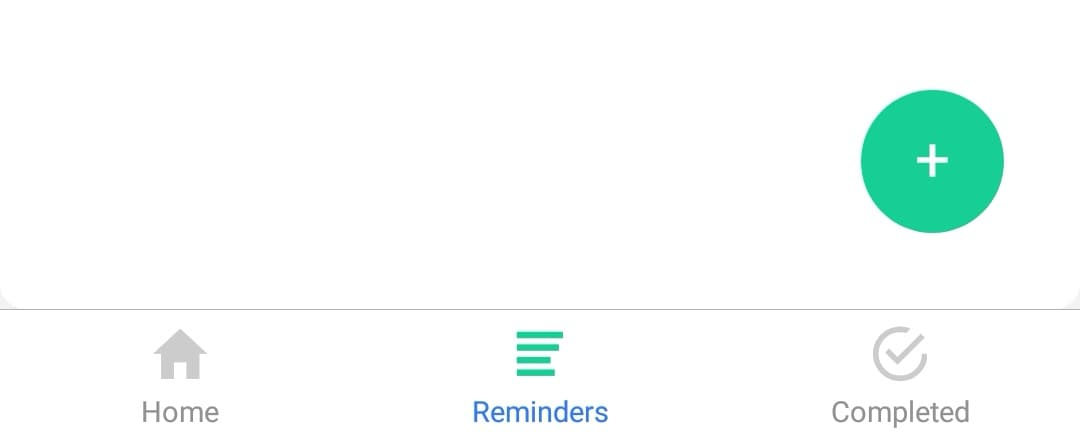
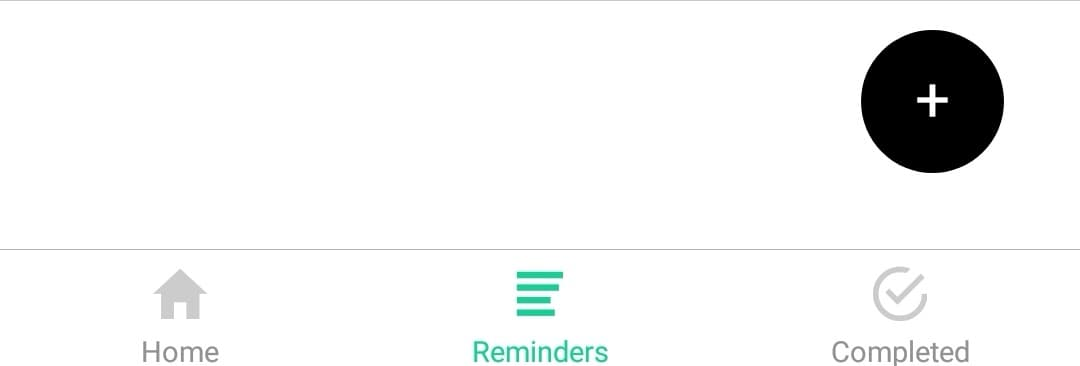
Minor changes to the style and Welcome Modal.

diff --git a/components/ModalWelcome.js b/components/ModalWelcome.js
@@ -12,6 +12,8 @@ import {Constants, Svg} from 'expo';
 import {Kaede} from 'react-native-textinput-effects';
 import createStyles from '../styles/ModalWelcomeStyle.js';
 import Storage from "../components/Storage.js";
+const screenWidth = Dimensions.get('window').width;
+import color from '../constants/Colors';
 
 const styles = createStyles();
 let openModal = false;
@@ -38,51 +40,55 @@ export default class ModalWelcome extends React.Component {
                     this.props.setClose(false);
                 }}>
                 <ScrollView>
-                    <Text style={styles.titleT}>Welcome to</Text>
-                    <Text style={styles.titleB}>ReMind</Text>
-                    <Svg height={100} width={100} style={{borderColor:'red'}}>
-                        <Svg xmlns="http://www.w3.org/2000/svg" viewBox="0 0 772.74 525.25">
-                            <Svg.G id="10b55ef5-f461-420d-8f90-6248f2df40a1" data-name="Layer 3">
-                                <Svg.Path
-                                    d="M703.89,256.32c-1.95-28.38-24.07-.79-38.16,15.22s10,54.56,19.61,65.28S702.18,312,719.83,303s21,19.55,1.92,42.59-63.73,2.9-73.93.33-32.12-27.18-37.34-44.1,15.64-24.78,26.64-29.94,10.1-38.85,7.19-58.67,21.92,24.6,28.57-2-9.82-25.53-15.74-39-36.72,1.79-43.73,15-1.36,23.79,4.66,40.89-23,23.15-33.29,48.9,2.71,50,9.36,83.32,23.16,26.6,31.26,9.74,37.87-3.64,54.7,9.11,13.32,7.57,27.86,1.3,34.31-25.68,26.07,8.65S722.79,415,705.67,429.28s-24.8-28.58-38.36-37.57S627.38,414.9,612.8,420,586.45,393,567.64,380.54s-79,4.93-96.49,4.17,45.35-14,74.9-23.91,16.45-46.73,11.88-61.64,10.68-32.16,21-48.07-13.31-44.73-29.29-70.3,19.59-3.16,31.06,17.05,13.51-22.9,17.69-37.43,35.86-4.4,33.69-19.16S601.33,120.94,593.57,113s-7.69,17.67-22.07,37.54-39.62-9.92-59.93-11.41,27.83,45.36,39.12,66.39-7.22,57.86-22.13,65.16-10.62,34.39,0,58.48-73.15,37.67-87.12,42.92,12.2,10.23,2.68,26.32,51.51,1.08,68.81,1.43,70.77,22.91,88.37,49.66,26.33-26.69,57-23,21.41,20.15,10.16,23.29-29.43,7.07-35.33,31.8-31.76,1.65-50.29-13.29-46.44-29-60.5-42.27-64-6.23-102.76,7.59,1.66-27.46-14.57-39.82,22.2-32.47,49.69-45.18,27.14-63.87,22.44-83.44,23.81-1.64,33.87-12.27-5.79-61.17-29.2-112.13,15.72-29.46,28-21.86,77.36,1.41,60.48-28-45.25-27.64-36.83-10-34.29-3.56-53.05-6.72S448,138.6,437,145.59s29.33,34.35,25.07,76.5S448,268.56,424,316.91s-43.07,9.87-51.7,29.39,7.65,48.74,0,76.76,30,37,54.52,32.27,35-22.85,99.53,5.49,22.84,37,6.86,49-25.88-23.88-37.74-29S432,460.88,405.62,492.44s-30.9-26-60.72-56.47,5.05-64.5,10.44-116.43,43.86,27.68,45.79-27.2,8-19.51,15-49.95,33.7-33.58,1.22-89.18,0,0-48.69-22.47S322.5,89,380.25,104s54.56-56.68,54.56-56.68-24-1.13-46.83,16-41.48-13.43-59.48-7.3.71,56.86,4.41,77.34,59.42,21.83,58.89,76.72-15.88,56.49-50,79.27S303,344.8,303,344.8s-12.84,67.31,2.79,105.63,19.86,34.58,18.3,64.88c0,0-39.53,20.34-39.55-3s19.37-49-2.09-79.15-18.18-86.23-8.82-93.17,22.3-96.24,43.54-97.41,42.1,21.23,44.75-6.46-2.58-45-41.13-67.14-23.09-39-29.58-51.21,15.36-58.28-19.76-40.9-32.4,29.89-15,49.94,6.64,48.36,27.29,54.92,60.88,24.79,44.58,32.13-47.54,6.13-54.1,28.64-11.49,61.83-17.24,69.9-32.51,33.35-24.36,55.88S269.25,446.7,251.08,436s-61.65-24.16-58.22-37,34.79,7.81,24.22-16.07-7.72-44.07,9-65.63S244,241.66,261.49,228.2,293,210.51,277.92,203s-37.72-28.44-40.84-41.16-21.12-54.67-29.16-50.4-39.72,8.56-25.17,25S197,172,223.51,189.81s30.32,19.3,5.44,55.5-23.87,51.77-35.4,59.3,1.74,72.36-8,71.81-27.28,21.23-31.79,15.87-42.94-15.12-41.7-28.55S165.1,379,162.29,355.1s5.53-68.78,18.55-80.09,43-50.89,35.85-57.4S194,171.5,174.39,166.33s-21.74-25.41-43.14,7.24-3,29.32,7.81,24.56,15.7-30.06,30-6.88S197.28,220,192,230.85s-42.32,15.94-44.69,39,2.3,57-7.13,61.11S97.4,351.74,96,342.64s-15.56-54.83-3.18-60,15.07,36.16,21,27.07,11.48-62,23.3-66,37.93-23.74,21.15-26.95-47.93-1-48.62,10.21,4.75,36.84-7.34,38.38-37.66,19-34.2,44.73,7.66,49.17,28.13,71.58c11.39,12.47,15.57,17.68,32.14,25.41,13.2,6.17,42.39,4.54,51,8.54,19.51,9,15,7.44,25.39,13.14,4.54,3.56,9.05,5.6,11,10.07s7.66,6.26,9.2,11.7c1.67,5.94-.9,11,2.12,16.2,3.83,6.63,12.62,7.74,16.68,11.86,5.67,5.75,3.47,19.56,5.06,26.89,2.08,9.56,7.37,12.46,12.08,16.42,9.73,6.86,29,10.65,46,12.19,51.59,4.12,85.36-11.6,105.67-17.82,12.81-4.19,34.75-23.66,48-19.54,7.45,3.66,8.5,9.42,17.22,35.84,7.78,9.35,11.47,1.88,18.38,2.61,13.76,1.47,30.2,14.64,36.26,18.13s-6.18,14.58,6,16.09,21.56-3.82,22.61-16.84,57.24-30.15,71.47-33.16,34-21,39.3-32.31c5.39-11.58,9.45-29.8,18.62-32.58,6.15-.37,43.62-11.71,48.08-30.92,2.31-9.94,9.31-21.26,12.89-36.26,3.34-14,2.28-28.28,1.65-30.32-1.31-4.23,3.58-52.34-4.15-66.83C745,282.88,735.78,271,730.84,260s-5.55-21-6.42-24.13C722.66,229.62,703.89,256.32,703.89,256.32Z"
-                                    transform="translate(-66.26 -45.84)"
-                                    style="fill:#231f20;stroke:#231f20;stroke-miterlimit:10;stroke-width:3px;opacity:0.17"/>
-                            </Svg.G>
-                            <Svg.G id="d17fd6fb-3636-41ad-a3d2-1977cdfe3bd3" data-name="Text">
+                    <View style={styles.container}>
+                        <Text style={styles.titleT}>Welcome to</Text>
+                        <Text style={styles.titleB}>ReMind</Text>
+                        <View style={styles.svg}>
+                            <Svg height={screenWidth*0.5} width={screenWidth*0.5} xmlns="http://www.w3.org/2000/svg" viewBox="0 0 772.74 525.25">
+                                <Svg.G id="10b55ef5-f461-420d-8f90-6248f2df40a1" data-name="Layer 3">
+                                    <Svg.Path
+                                        d="M703.89,256.32c-1.95-28.38-24.07-.79-38.16,15.22s10,54.56,19.61,65.28S702.18,312,719.83,303s21,19.55,1.92,42.59-63.73,2.9-73.93.33-32.12-27.18-37.34-44.1,15.64-24.78,26.64-29.94,10.1-38.85,7.19-58.67,21.92,24.6,28.57-2-9.82-25.53-15.74-39-36.72,1.79-43.73,15-1.36,23.79,4.66,40.89-23,23.15-33.29,48.9,2.71,50,9.36,83.32,23.16,26.6,31.26,9.74,37.87-3.64,54.7,9.11,13.32,7.57,27.86,1.3,34.31-25.68,26.07,8.65S722.79,415,705.67,429.28s-24.8-28.58-38.36-37.57S627.38,414.9,612.8,420,586.45,393,567.64,380.54s-79,4.93-96.49,4.17,45.35-14,74.9-23.91,16.45-46.73,11.88-61.64,10.68-32.16,21-48.07-13.31-44.73-29.29-70.3,19.59-3.16,31.06,17.05,13.51-22.9,17.69-37.43,35.86-4.4,33.69-19.16S601.33,120.94,593.57,113s-7.69,17.67-22.07,37.54-39.62-9.92-59.93-11.41,27.83,45.36,39.12,66.39-7.22,57.86-22.13,65.16-10.62,34.39,0,58.48-73.15,37.67-87.12,42.92,12.2,10.23,2.68,26.32,51.51,1.08,68.81,1.43,70.77,22.91,88.37,49.66,26.33-26.69,57-23,21.41,20.15,10.16,23.29-29.43,7.07-35.33,31.8-31.76,1.65-50.29-13.29-46.44-29-60.5-42.27-64-6.23-102.76,7.59,1.66-27.46-14.57-39.82,22.2-32.47,49.69-45.18,27.14-63.87,22.44-83.44,23.81-1.64,33.87-12.27-5.79-61.17-29.2-112.13,15.72-29.46,28-21.86,77.36,1.41,60.48-28-45.25-27.64-36.83-10-34.29-3.56-53.05-6.72S448,138.6,437,145.59s29.33,34.35,25.07,76.5S448,268.56,424,316.91s-43.07,9.87-51.7,29.39,7.65,48.74,0,76.76,30,37,54.52,32.27,35-22.85,99.53,5.49,22.84,37,6.86,49-25.88-23.88-37.74-29S432,460.88,405.62,492.44s-30.9-26-60.72-56.47,5.05-64.5,10.44-116.43,43.86,27.68,45.79-27.2,8-19.51,15-49.95,33.7-33.58,1.22-89.18,0,0-48.69-22.47S322.5,89,380.25,104s54.56-56.68,54.56-56.68-24-1.13-46.83,16-41.48-13.43-59.48-7.3.71,56.86,4.41,77.34,59.42,21.83,58.89,76.72-15.88,56.49-50,79.27S303,344.8,303,344.8s-12.84,67.31,2.79,105.63,19.86,34.58,18.3,64.88c0,0-39.53,20.34-39.55-3s19.37-49-2.09-79.15-18.18-86.23-8.82-93.17,22.3-96.24,43.54-97.41,42.1,21.23,44.75-6.46-2.58-45-41.13-67.14-23.09-39-29.58-51.21,15.36-58.28-19.76-40.9-32.4,29.89-15,49.94,6.64,48.36,27.29,54.92,60.88,24.79,44.58,32.13-47.54,6.13-54.1,28.64-11.49,61.83-17.24,69.9-32.51,33.35-24.36,55.88S269.25,446.7,251.08,436s-61.65-24.16-58.22-37,34.79,7.81,24.22-16.07-7.72-44.07,9-65.63S244,241.66,261.49,228.2,293,210.51,277.92,203s-37.72-28.44-40.84-41.16-21.12-54.67-29.16-50.4-39.72,8.56-25.17,25S197,172,223.51,189.81s30.32,19.3,5.44,55.5-23.87,51.77-35.4,59.3,1.74,72.36-8,71.81-27.28,21.23-31.79,15.87-42.94-15.12-41.7-28.55S165.1,379,162.29,355.1s5.53-68.78,18.55-80.09,43-50.89,35.85-57.4S194,171.5,174.39,166.33s-21.74-25.41-43.14,7.24-3,29.32,7.81,24.56,15.7-30.06,30-6.88S197.28,220,192,230.85s-42.32,15.94-44.69,39,2.3,57-7.13,61.11S97.4,351.74,96,342.64s-15.56-54.83-3.18-60,15.07,36.16,21,27.07,11.48-62,23.3-66,37.93-23.74,21.15-26.95-47.93-1-48.62,10.21,4.75,36.84-7.34,38.38-37.66,19-34.2,44.73,7.66,49.17,28.13,71.58c11.39,12.47,15.57,17.68,32.14,25.41,13.2,6.17,42.39,4.54,51,8.54,19.51,9,15,7.44,25.39,13.14,4.54,3.56,9.05,5.6,11,10.07s7.66,6.26,9.2,11.7c1.67,5.94-.9,11,2.12,16.2,3.83,6.63,12.62,7.74,16.68,11.86,5.67,5.75,3.47,19.56,5.06,26.89,2.08,9.56,7.37,12.46,12.08,16.42,9.73,6.86,29,10.65,46,12.19,51.59,4.12,85.36-11.6,105.67-17.82,12.81-4.19,34.75-23.66,48-19.54,7.45,3.66,8.5,9.42,17.22,35.84,7.78,9.35,11.47,1.88,18.38,2.61,13.76,1.47,30.2,14.64,36.26,18.13s-6.18,14.58,6,16.09,21.56-3.82,22.61-16.84,57.24-30.15,71.47-33.16,34-21,39.3-32.31c5.39-11.58,9.45-29.8,18.62-32.58,6.15-.37,43.62-11.71,48.08-30.92,2.31-9.94,9.31-21.26,12.89-36.26,3.34-14,2.28-28.28,1.65-30.32-1.31-4.23,3.58-52.34-4.15-66.83C745,282.88,735.78,271,730.84,260s-5.55-21-6.42-24.13C722.66,229.62,703.89,256.32,703.89,256.32Z"
+                                        transform="translate(-66.26 -45.84)"
+                                        fill={"black"}/>
+                                </Svg.G>
+                                {/*<Svg.G id="d17fd6fb-3636-41ad-a3d2-1977cdfe3bd3" data-name="Text">
                                 <Svg.Text transform="translate(140.74 345.72)"
-                                      style="font-size:300px;fill:#231f20;font-family:NiagaraSolid-Reg, Niagara Solid">R
+                                      style="font-size:300px,fill:#231f20,font-family:NiagaraSolid-Reg, Niagara Solid">R
                                     <Svg.TSpan x="93.02" y="0" style="font-size:236px">e</Svg.TSpan>
                                     <Svg.TSpan x="158.13" y="0">M</Svg.TSpan>
                                     <Svg.TSpan x="269.45" y="0" style="font-size:230px">ind</Svg.TSpan>
                                 </Svg.Text>
-                            </Svg.G>
-                        </Svg>
-                    </Svg>
-                    <Text style={styles.textT}>Our mission is not to be your ordinary TODO app.
-                        By using known methods such as visual clues to bind memories, we are aiming for improving your
-                        ability to remember tasks.
-                        We will help you structure you daily tasks and your mind.</Text>
-                    <Text style={styles.titleT}>First:</Text>
-                    <Text style={styles.textT}>Add a reminder in the Reminders tab. In the process you will be able to
-                        add a visual clue. The Image will become a hint on revisiting a reminder.</Text>
-                    <View style={styles.imgView}>
-                        <Image
-                            style={styles.img}
-                            source={require('../assets/images/ReminderTab.jpg')}
-                        />
-                    </View>
-                    <Text style={styles.titleT}>Second:</Text>
-                    <Text style={styles.textT}>For challenging your mind we give you a score incentive to avoid opening
-                        the Reminder before the do-date. As the date arrives you will be able to open the reminder and
-                        test your memory. You will resive a score depending on your performance.</Text>
-                    <View style={styles.inputChooses}>
-                        <TouchableHighlight
-                            style={styles.buttonSave}
-                            onPress={() => {
-                                this.props.setClose(false);
-                            }}>
-                            <Text style={styles.modalText2}>Enter</Text>
-                        </TouchableHighlight>
+                            </Svg.G>*/}
+                            </Svg>
+                        </View>
+                        <Text style={styles.textT}>Our mission is NOT to be your ordinary todo app.
+                            By using known methods such as visual clues to bind memories, we are aiming for improving your
+                            ability to remember tasks.
+                            We will help you structure you daily tasks, and your mind.</Text>
+                        <Text style={styles.titleT}>1.</Text>
+                        <Text style={styles.textT}>A reminder can be added in the Reminders tab. In the process you will be able to
+                            add a visual clue. The Image will become a hint on revisiting a reminder.</Text>
+                        <View style={{alignItems:'center',width:screenWidth-40,height:((screenWidth-40)/5*1.8)}}>
+                            <View style={styles.imgView}>
+                                <Image
+                                    style={styles.img}
+                                    source={require('../assets/images/ReminderTab.jpg')}
+                                />
+                            </View>
+                        </View>
+                        <Text style={styles.titleT}>2.</Text>
+                        <Text style={styles.textT}>For challenging your mind we give you a score incentive to avoid opening
+                            the reminder before the do-date. As the date arrives you will be able to open the reminder and
+                            test your memory. You will receive a score depending on your performance.</Text>
+                        <View style={styles.inputChooses}>
+                            <TouchableHighlight
+                                style={styles.greenButton}
+                                onPress={() => {
+                                    this.props.setClose(false);
+                                }}>
+                                <Text style={styles.modalText2}>Enter</Text>
+                            </TouchableHighlight>
+                        </View>
                     </View>
                 </ScrollView>
             </Modal>

diff --git a/styles/ModalWelcomeStyle.js b/styles/ModalWelcomeStyle.js
@@ -1,103 +1,52 @@
 import { StyleSheet,Dimensions } from 'react-native';
-
+import color from '../constants/Colors'
 
 const styles = {
     inputChooses: {
-        paddingVertical:10,
+        paddingVertical:20,
     },
-    button: {
+    greenButton:{
         alignItems: 'center',
-        backgroundColor: '#DDDDDD',
+        backgroundColor: color.greenButton,
         padding: 10
-    },
-    buttonSave:{
-        alignItems: 'center',
-        backgroundColor: '#17cf94',
-        padding: 10
-    },
-    buttonQuit: {
-        alignItems: 'center',
-        backgroundColor: '#F2686B',
-        padding: 10
-    },
-    actionButtonIcon: {
-        fontSize: 20,
-        height: 22,
-        color: 'white',
-    },
-    camera: {
-        aspectRatio: 4/5,
-    },
-    lock: {
-        paddingHorizontal: 20,
     },
     img: {
         flex: 1,
         alignSelf: 'stretch',
         width: undefined,
-        height: undefined
+        height: undefined,
+    },
+    svg: {
+        alignSelf:'center'
     },
     imgView:{
         alignItems:'center',
-        aspectRatio: 5/2,
-        marginHorizontal:23,
-    },
-    info1: {
-        flex: 1,
-        flexDirection: 'column',
-    },
-    item: {
-        alignItems: 'center',
-        marginBottom: 5,
-        marginTop: 15,
-        paddingHorizontal: 10,
-    },
-    input: {
-        height: 30
-    },
-    shadow: {
+        aspectRatio: 5/1.8,
         borderWidth: 1,
-        borderRadius: 10,
         borderColor: '#ddd',
         borderBottomWidth: 0,
-        shadowColor: '#000',
+        shadowColor: color.normalText,
         shadowOffset: {width: 10, height: 30},
         shadowOpacity: 0.8,
         shadowRadius: 10,
-        elevation: 5,
-        marginLeft: 5,
-        marginRight: 5,
-        alignSelf: 'stretch',
-    },
-    gradient: {
-        flex: 1,
-        flexDirection: 'row',
-        borderRadius: 10,
-        alignItems: 'center',
+        elevation: 3,
+        marginBottom:20,
     },
     container: {
-        flex: 1,
-        backgroundColor: '#fff',
-        borderRadius: 10,
-    },
-    dateText: {
-        margin: 10,
-        fontSize: 27,
-        color: '#ffffff',
-        textAlign: 'center',
+        marginHorizontal:20,
     },
     titleT: {
-        margin: 10,
+        margin:10,
         fontSize: 27,
-        color: '#000',
-        textAlign: 'center',
+        color: color.subtleText,
+        textAlign: 'left',
     },
     titleB: {
         margin: 10,
         fontSize: 47,
-        color: '#000',
+        color: color.normalText,
         textAlign: 'center',
-        shadowColor: '#000',
+        shadowColor: color.normalText,
         shadowOffset: {width: 10, height: 30},
         shadowOpacity: 0.8,
         shadowRadius: 10,
@@ -106,8 +55,9 @@ const styles = {
     textT: {
         margin: 10,
         fontSize: 17,
-        color: '#000',
+        color: color.normalText,
         textAlign: 'left',
+        marginBottom:20,
     }
 };
 

diff --git a/screens/HomeScreen.js b/screens/HomeScreen.js
@@ -162,7 +162,7 @@ export default class HomeScreen extends React.Component {
                                         start={[1, 0]}
                                         end={[0, 1]}
                                         colors={color.colorPalletGreen}
-                                        style={styles.gradient}>
+                                        style={styles.dataGradient}>
                                         <Text style={styles.scorePointText}>
                                             {this.state.points}
                                             {/*{<AnimateNumber value={this.state.points}
@@ -212,7 +212,7 @@ export default class HomeScreen extends React.Component {
                                 <View style={{width: rightBoxWidth}}>
                                     <LinearGradient
                                         colors={color.colorPalletGreen}
-                                        style={styles.gradient}
+                                        style={styles.dataGradient}
                                         start={[1, 0]}
                                         end={[0, 1]}>
                                         <Text style={styles.scorePointText}>

diff --git a/screens/Reminders.js b/screens/Reminders.js
@@ -129,7 +129,7 @@ export default class Reminders extends React.Component {
                             ))
                         }
                     </ScrollView>
-                    <ActionButton buttonColor='#17cf94' title="New Reminder" onPress={() => this.setState({ modalVisible: true })}>
+                    <ActionButton buttonColor={color.plussButton} title="New Reminder" onPress={() => this.setState({ modalVisible: true })}>
                         <Icons name="md-create" style={styles.actionButtonIcon} />
                     </ActionButton>
                     <Overlay 

diff --git a/navigation/MainTabNavigator.js b/navigation/MainTabNavigator.js
@@ -5,6 +5,7 @@ import TabBarIcon from '../components/TabBarIcon';
 import HomeScreen from '../screens/HomeScreen';
 import RemindersScreen from '../screens/Reminders';
 import CompletedScreen from '../screens/Completed';
+import color from '../constants/Colors'
 
 const HomeStack = createStackNavigator({
     Home: HomeScreen,
@@ -62,4 +63,8 @@ export default createBottomTabNavigator({
     HomeStack,
     RemindersStack,
     CompletedStack
-});
+    },{
+        tabBarOptions: {
+            activeTintColor: color.tintColor,
+        },
+    });

diff --git a/constants/Colors.js b/constants/Colors.js
@@ -5,11 +5,16 @@ export default {
     tintColor,
     tabIconDefault: '#ccc',
     tabIconSelected: tintColor,
+    tabBarTextColor: '#ccc',
     tabBarActiveTextColor: tintColor,
     tabBar: '#fefefe',
     errorBackground: 'red',
     errorText: '#fff',
+    normalText: '#000',
+    plussButton:'#000',
+    greenButton:'#17cf94',
     text:'#158743',
+    subtleText:'#646464',
     warningBackground: '#EAEB5E',
     warningText: '#666804',
     noticeBackground: tintColor,

diff --git a/styles/HomeScreenStyle.js b/styles/HomeScreenStyle.js
@@ -18,7 +18,6 @@ const styles = {
         alignItems: 'center',
         marginBottom: 30,
         width: screenWidth-20,
-        borderColor:'red',
         marginHorizontal:10,
         backgroundColor:color.background
     },
@@ -55,6 +54,10 @@ const styles = {
         alignItems: 'center',
         flex:1,
         flexDirection:'row',
+    },
+    dataGradient: {
+        borderRadius: 10,
+        alignItems: 'center',
     },
     container: {
         flex: 1,

diff --git a/styles/ReminderStyle.js b/styles/ReminderStyle.js
@@ -74,7 +74,7 @@ const styles = {
     container: {
         flex: 1,
         backgroundColor: '#fff',
-        borderRadius: 10,
+        borderRadius: 0,
     },
     dateText: {
         margin: 10,

diff --git a/styles/CompletedStyle.js b/styles/CompletedStyle.js
@@ -74,7 +74,7 @@ const styles = {
   container: {
     flex: 1,
     backgroundColor: "#fff",
-    borderRadius: 10
+    borderRadius: 0,
   },
   reminderText: {
     margin: 5,
